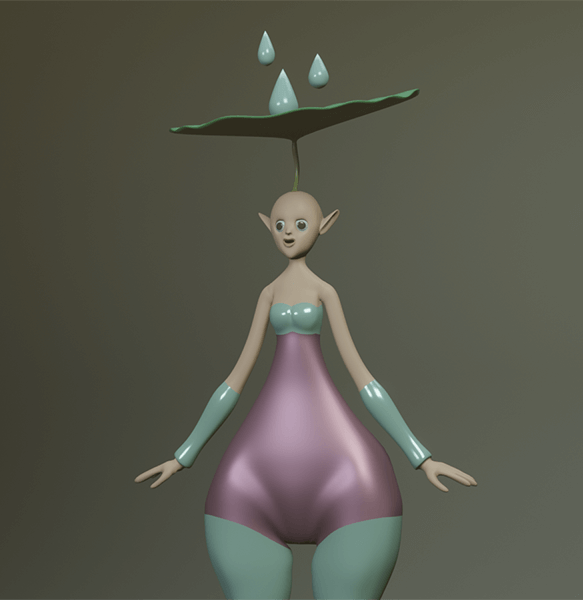
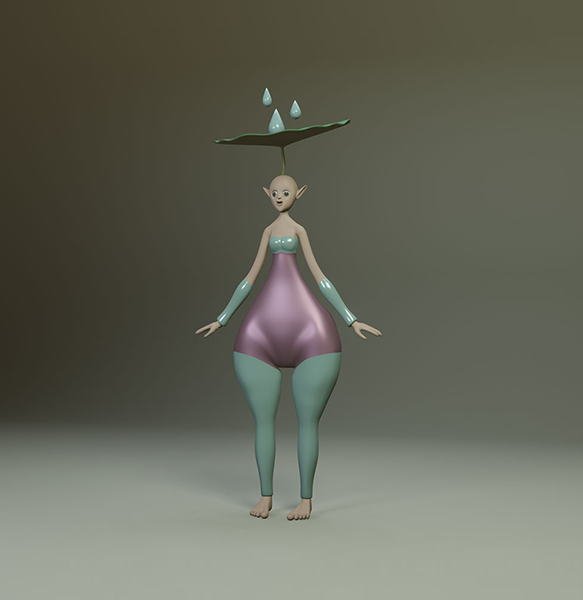
updated prints

diff --git a/mywork/prints/index.html b/mywork/prints/index.html
@@ -1,0 +1,62 @@
+<!DOCTYPE html>
+<html lang="en" dir="ltr">
+
+<link rel="stylesheet" href="../../style.css">
+<link rel="stylesheet" href="https://cdnjs.cloudflare.com/ajax/libs/font-awesome/4.7.0/css/font-awesome.min.css">
+
+<head>
+    <meta charset="utf-8">
+    <title>tuc</title>
+</head>
+
+<body>
+ <header>
+    <h1> T . U . C </h1>
+ </header>
+ <nav>
+   <!-- <a href="../../"> home / </a> -->
+   <a class="active" href="../../"> portfolio / </a> <!-- "active" class makes only the visited tab changes its color. other tabs stays pink</a> -->
+   <a href="../../about"> about </a>
+ </nav>
+
+ <br>
+
+
+ <div class="img-set2">
+    <!-- <p>Beside working with digital medium, I also enjoy makiing prints using woodcut printing technique. This is a handful skill which allows me to bring my digital works to real life</p> -->
+
+   <img class="work-img2" src="../../assets/tangerine-print.jpg" alt="Picture of Tangerine print" width="500px">
+   <div class="img-set2">
+      <h3> <i>Still life</i>, reduction woodblock print on rice paper, 2021</h3>
+   </div>
+   <!-- <p>I love working with patterns, colors, and shapes. This artwork is created to demonstrate the interaction of vivid colors,
+      unique shapes, and strange patterns in a surreal composition. The original artwork is a paper cutout and composed into
+      a digital collage. The Audacity is used to glitch the collage to create chaotic
+      distortion and decomposition of the paper cutouts' original patterns and forms.</p> -->
+</div>
+
+<div class="img-set2">
+   <img class="work-img2" src="../../assets/hoian-print.jpg" alt="Working at Hoi An Pier" width="500px">
+   <h3> <i>Working at Hoi An Pier,</i> multi-woodblock print on rice paper, 2021</h3>
+   <!-- <p>The work shows a heavily covered and sun-protected woman organizing colorful boxes used to store and sort different kinds of fish at a pier in Hoi An, Vietnam.
+    The multitude of colors and sheer number of boxes overwhelming the woman convey a sense of endless and hard labor under the fiery tropical sun.</p>  -->
+</div>
+
+
+ <div class="img-set2">
+    <img class="work-img2" src="../../assets/tomatoes-print.jpg" alt="Image of Dad's Garden print." width="500px">
+    <h3> <i>Dad's Garden,</i> multi-woodblock print on rice paper, 2021</h3>
+    <!-- <p>Another version of the collage after glitching</p> -->
+ </div>
+
+ <div class="img-set2">
+    <img class="work-img2" src="../../assets/bi-print.jpg" alt="Image of Bi's print" width="500px">
+    <h3> <i>Reflection,</i> multi-woodblock print on rice paper, 2021</h3>
+    <!-- <p>Another version of the collage after glitching</p> -->
+ </div>
+
+ <div id=my-footer>
+   <a>@ 2022 t.u.c</a>
+ </div>
+</body>
+</html>

diff --git a/mywork/video/index.html b/mywork/video/index.html
@@ -1,0 +1,42 @@
+<!DOCTYPE html>
+<html lang="en" dir="ltr">
+
+<link rel="stylesheet" href="../../style.css">
+<link rel="stylesheet" href="https://cdnjs.cloudflare.com/ajax/libs/font-awesome/4.7.0/css/font-awesome.min.css">
+
+<head>
+    <meta charset="utf-8">
+    <title>tuc</title>
+</head>
+
+<body>
+ <header>
+    <h1> T . U . C </h1>
+ </header>
+ <nav>
+   <!-- <a href="../../"> home / </a> -->
+   <a class="active" href="../../"> portfolio / </a> <!-- "active" class makes only the visited tab changes its color. other tabs stays pink</a> -->
+   <a href="../../about"> about </a>
+ </nav>
+ <br>
+ <br>
+ <div class="container-video">
+    <div class="video">
+    <iframe width="560px" height="320px" allowfullscreen="true" allow="autoplay *" src="https://sjsu.instructuremedia.com/embed/5f8f7121-42dc-4f9d-956b-3e9bd45b77b0" frameborder="0"></iframe>
+    </div>
+  </div>
+  <div class="container-video">
+    <h3> <i> Inner Tranquility, </i> single screen video, 2022</h3>
+    <p>
+    The video shows the beauty and serenity of common activities and objects. The scenes and audios aim to help the audience feel calm and relax to connect with their inner soul.
+    Through this project, I continue to explore another side of familiar objects and activities, which I interact with every day when going out. I investigate things through different perspectives, using closeups or panoramas to find their exquisiteness.</p>
+  </div>
+ 
+ 
+  <div id=my-footer>
+    <a>@ 2022 t.u.c</a>
+  </div>
+ 
+ </body>
+ </html>
+ 

diff --git a/index.html b/index.html
@@ -26,6 +26,11 @@
    </div>
 
    <div lass="work-img">
+    <a href="./mywork/video">
+    <img src="./assets/video-cover.gif" alt="Inner Tranquility video, 2022" width="370px"></a>
+   </div>
+
+   <div lass="work-img">
     <a href="./mywork/helenProj">
     <img src="./assets/helen-thumbnail.gif" alt="Bi and Helen, 2021, Digital Painting and NFT" width="370px"></a>
    </div>
@@ -43,17 +48,24 @@
      </div>
 
    <div class="work-img">
-    <a href="./mywork/proj4/">
-    <img src="./assets/randomizer-machine-thumbnail.gif" alt="This randomizer machine allows the artist to see many possibilities that
-
-    are difficult to visualize and create manually." width="370px"></a>
+    <a href="https://thaou-c.github.io/randomizerFinal1/" target="_blank">
+    <img src="./assets/randomizer-machine-thumbnail.gif" width="370px"></a>
    </div>
 
    <div class="work-img">
+    <a href="./mywork/prints/">
+    <img src="./assets/print-cover2.gif" alt="3D Sculptures created by T.U.C in 2022" width="370"></a>
+    </div>
+
+    <div class="work-img">
       <a href="./mywork/proj5/">
-      <img src="./assets/sculptures2.png" alt="3D Sculptures created by T.U.C in 2022" width="772px"></a>
+      <img src="./assets/sculpture-cover2.jpg" alt="3D Sculptures created by T.U.C in 2022" width="370"></a>
    </div>
  </div>
+
+ 
+</div>
+
 
  <div id=my-footer>
    <a>@ 2022 t.u.c</a>

diff --git a/about/index.html b/about/index.html
@@ -32,8 +32,13 @@
    Thao is currently pursuing a BFA program in Digital Media Art at San Jose State University. She is in her fourth year at the university and will be graduating in Spring 2023. Her works were chosen to display at a San Jose State University’s gallery, and one of her woodcut prints won the President Art Award at Diablo Valley College and was bought by the school to display for their permanent art collection. Before completely committing her practice to art, specifically digital media art, Thao was a self-taught graphic designer for a few years when she lived in Vietnam. She was employed as a graphic designer at TiKi, a pioneer company in e-commerce in Vietnam, and Grab, Southeast Asia's leading super app. After residing in the United States, Thao shifted her focus from graphic design to creating art and exploring the digital realm.
    <br>
    <br>
-   <a class="e-mail" href="https://drive.google.com/file/d/1ZSGALZG7TgtHFE-PY9nEmK7E0wWvRjwJ/view?usp=sharing"> Download resume </a> <br>
+
+   <a class="e-mail" href="https://drive.google.com/file/d/1ZSGALZG7TgtHFE-PY9nEmK7E0wWvRjwJ/view?usp=sharing"> Download resume </a>
+   <br>
    <a class="e-mail" href="mailto: thaouyenula@gmail.com"> <i class="fa fa-envelope"> </i> thaouyenula@gmail.com </a> 
+   <br>
+   <br>
+   <br>
    </p>
   </div>
  </div>

diff --git a/style.css b/style.css
@@ -25,7 +25,15 @@ body {
 p{
     text-align: justify;
     font-size: medium;
-    color: #353333;
+    color: #474646;
+    display: block;
+    margin: auto;
+}
+
+p2 {
+    text-align: justify;
+    font-size: small;
+    color: #474646;
     display: block;
     margin: auto;
 }
@@ -90,7 +98,7 @@ a:hover {
 
  .work-img2{
     flex: 0 1 auto;
-    padding-top: 60px;
+    padding-top: 40px;
     }
 
 .bio-contain{
@@ -106,6 +114,19 @@ a:hover {
     justify-content: flex-start;
 }
 
+
+.container-video{
+    width: 700px;
+    display: flex;
+    flex-wrap: wrap;
+    justify-content: center;
+    margin: auto;
+}
+.video {
+    display: flex;
+    padding-top: 100px;
+}
+
 #my-footer {
     position: fixed;
     bottom: 0;
@@ -118,15 +139,8 @@ a:hover {
     text-align: right;
 }
 
-
-.container-video{
-    width: 700px;
-    display: flex;
-    flex-wrap: wrap;
-    justify-content: center;
-    margin: auto;
-}
-.video {
-    display: flex;
-    padding-top: 250px;
+button {
+    border: none;
+    background-color: #9c7485;
+    border-radius: 10px;
 }

diff --git a/mywork/avatar/index.html b/mywork/avatar/index.html
@@ -23,7 +23,7 @@
    <img class="work-img2" src="../../assets/avatar2.gif" alt="Bi and Helen is a Digital Painting and NFT created in 2021" width="650px">
  </div>
  <div class="img-set2">
-   <h3> 3D Modeling, 2022</h3>
+   <h3> Character Modeling, 2022</h3>
    <p>This work was created as an NFT from a picture taken when Bi took Helen for a walk. Dog ownership in the US
       carries an attractive aura that speaks beyond just having a pet. Walking a dog through the neighborhood
       enhances the owner's image as friendly, active, responsible, and stable.
@@ -32,7 +32,9 @@
  </div>
  <div class="img-set2">
     <img class="work-img2" src="../../assets/avatar3.jpg" alt="Bi and Helen is a Digital Painting and NFT created in 2021" width="650px">
+    <p2>different angles of the character</p2>
   </div>
+
 
  <div id=my-footer>
    <a>@ 2022 t.u.c</a>

diff --git a/mywork/proj2/index.html b/mywork/proj2/index.html
@@ -33,6 +33,8 @@
       unique shapes, and strange patterns in a surreal composition. The original artwork is a paper cutout and composed into
       a digital collage. The Audacity is used to glitch the collage to create chaotic
       distortion and decomposition of the paper cutouts' original patterns and forms.</p>
+
+      <h4><a href="https://thaou-c.github.io/project2prep2/examples/project2.html"> Experiment the collage in a 3D space</a></h4>
 </div>
 
 <div class="img-set2">
@@ -41,7 +43,6 @@
    distortion and decomposition of the paper cutouts' original patterns and forms." width="650px">
    <p>First version of the collage after glitching</p> 
 </div>
-
 
 
  <div class="img-set2">
